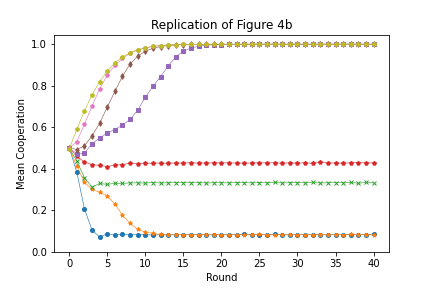
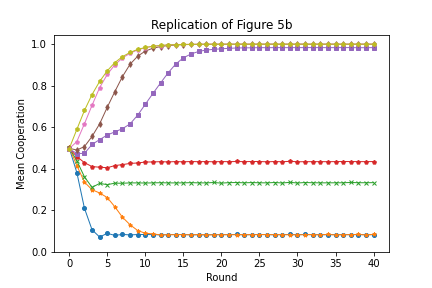
fixed some titles,

diff --git a/experiment_home.py b/experiment_home.py
@@ -23,27 +23,28 @@ import matplotlib.pyplot as plt
 
 ## Control board
 
-run = 0
+run = 1
 CI = True #true is when assume normal distribution, false is empirical quantiles
 
 MeansOnly = True
 
 save = 0 #save the figure
 
-filename = 're'
+filename = 'TAfig4b'
 
 parameters = {
     'seed': 42,
-    'steps': 200, #number of time periods
+    'steps': 40, #number of time periods
     'agent_n': 500,
-    'phi':ap.Values(2,2.5,3,3.5,4,4.5,5,5.5), #multiplier for common contributions
+    'phi':ap.Values(1.2, 1.8, 2.0, 2.2, 2.4, 2.6, 3.0, 4.0), #multiplier for common contributions
     'graph_m' : 6,
-    'graph_alpha': 0.3,
+    'graph_alpha': 1.0,
     'graph_p':0.05,
     'gtype': 'TAG',
-    'atype': ReplicatorLocal,
+    'atype': AT,
     'replicator_alpha': 1.0, #1 is pure replicator, 0 is imitation
-    'plot_G': 0 #gives the summary plot of the graph for each experiment
+    'plot_G': 0, #gives the summary plot of the graph for each experiment
+    'extended_reporting': 0
 }
 
 
@@ -109,7 +110,7 @@ for i in range(len(phis)):
     y3 = phi_graph.q_up.iloc[phi_graph.index.get_level_values('phi') == phis[i]]
     x = phis.index
     #plt.legend(phis.unique())
-    plt.plot(ts,y1, c=colours[i],marker = markers[i], markevery = 10,ms = 4,linewidth = 0.6, label = f'r = {phis[i]}') #
+    plt.plot(ts,y1, c=colours[i],marker = markers[i], markevery = 1,ms = 4,linewidth = 1.0, label = f'r = {phis[i]}') #
     if not MeansOnly:
         plt.plot(ts,y2,  c=colours[i], linestyle = 'dashed', label = f'_5th Percentile of {phis[i]}', alpha = 0.6 )
         plt.plot(ts,y3,  c=colours[i], linestyle =  'dashed', label = f'_95th Percentile of {phis[i]}' , alpha = 0.6)
@@ -122,7 +123,7 @@ plt.yticks(ticks = [0,0.2,0.4,0.6,0.8,1.0])
 
 #plt.rcParams["figure.figsize"] = (10,10)
 
-plt.title(f"Local Replicator Dynamics") #"; N: {parameters['agent_n']} "\
+plt.title(f"Replication of Figure 5b") #"; N: {parameters['agent_n']} "\
           #f"k: {parameters['graph_m']}, T: {reps}, alpha: {parameters['graph_alpha']} ")
     
 '''   

diff --git a/extended_reporting.py b/extended_reporting.py
@@ -44,7 +44,7 @@ parameters = {
     'graph_alpha': 0,# ap.Values(0.01,0.1,0.25,0.5, 0.75,1.0),
     'graph_p':0,#ap.Values(0.1,0.2,0.3,0.4,0.5),
     'power_p': 0,#ap.Values(0.1, 0.2,0.3,0.4,0.5),#ap.Values(0.01,0.2,0.4,0.6,0.8),
-    'gtype': 'BA', #ap.Values('WS', 'TAG', 'BA', 'RRG'),
+    'gtype': 'Star', #ap.Values('WS', 'TAG', 'BA', 'RRG'),
     'atype': ReplicatorLocal,
     'replicator_alpha': 1.0, #1 is pure replicator, 0 is imitation
     'plot_G': 0, #gives the summary plot of the graph for each experiment
@@ -59,7 +59,7 @@ sample = ap.Sample(
 )
 #assert len(parameters['phi'])==4
 
-reps = 1000
+reps = 10
 exp = ap.Experiment(WealthModel, sample, iterations=reps,
                     record = True)
 
@@ -89,6 +89,7 @@ bar_ax.set_xlabel('Degree Size')
 bar_ax.set_ylabel('Count of Nodes')
 line_ax = bar_ax.twinx()
 line_ax.plot(end_coop, marker = 'o', color = 'black')
+line_ax.set_ylim([0,1])
 line_ax.hlines(agg_coop_end,end_coop.index.min(), end_coop.index.max(), color = 'r', linewidth = 3, linestyle = 'dashed')
 line_ax.set_ylabel('Final Cooperation')
 

diff --git a/Agents.py b/Agents.py
@@ -296,13 +296,13 @@ class AT(BaseAgent):
             
 class Nau(ap.Agent):
     def setup(self):
-        d,_ = divmod(self.model.p.agents,6)
+        d,_ = divmod(self.model.p.agents,3)
         if self.id <=d:
-            self.strategy = 'RwR'
+            self.strategy = 'RwS'
         elif self.id <= 2*d:
-            self.strategy = 'RR'
-        elif self.id<=3*d:
             self.strategy = 'RS'
+        elif self.id<=3*d:
+            self.strategy = 'SS'
         elif self.id <=4*d:
             self.strategy = 'RwS'
         elif self.id <=5*d:

diff --git a/Models.py b/Models.py
@@ -62,11 +62,13 @@ class WealthModel(ap.Model):
             graph = TAG(n,m,self.p.graph_alpha)
         elif self.gtype =='PL':
             graph =nx.powerlaw_cluster_graph(n,int(m/2),self.p.power_p)
+        elif self.gtype =='Star':
+            graph = nx.star_graph(n)
         else:
             print('no idea what graph you want')
             return
         if self.p.plot_G: #plotting tool
-            plot_G(graph)
+            plot_G(graph, title = self.gtype + str(n))
         
         
 
